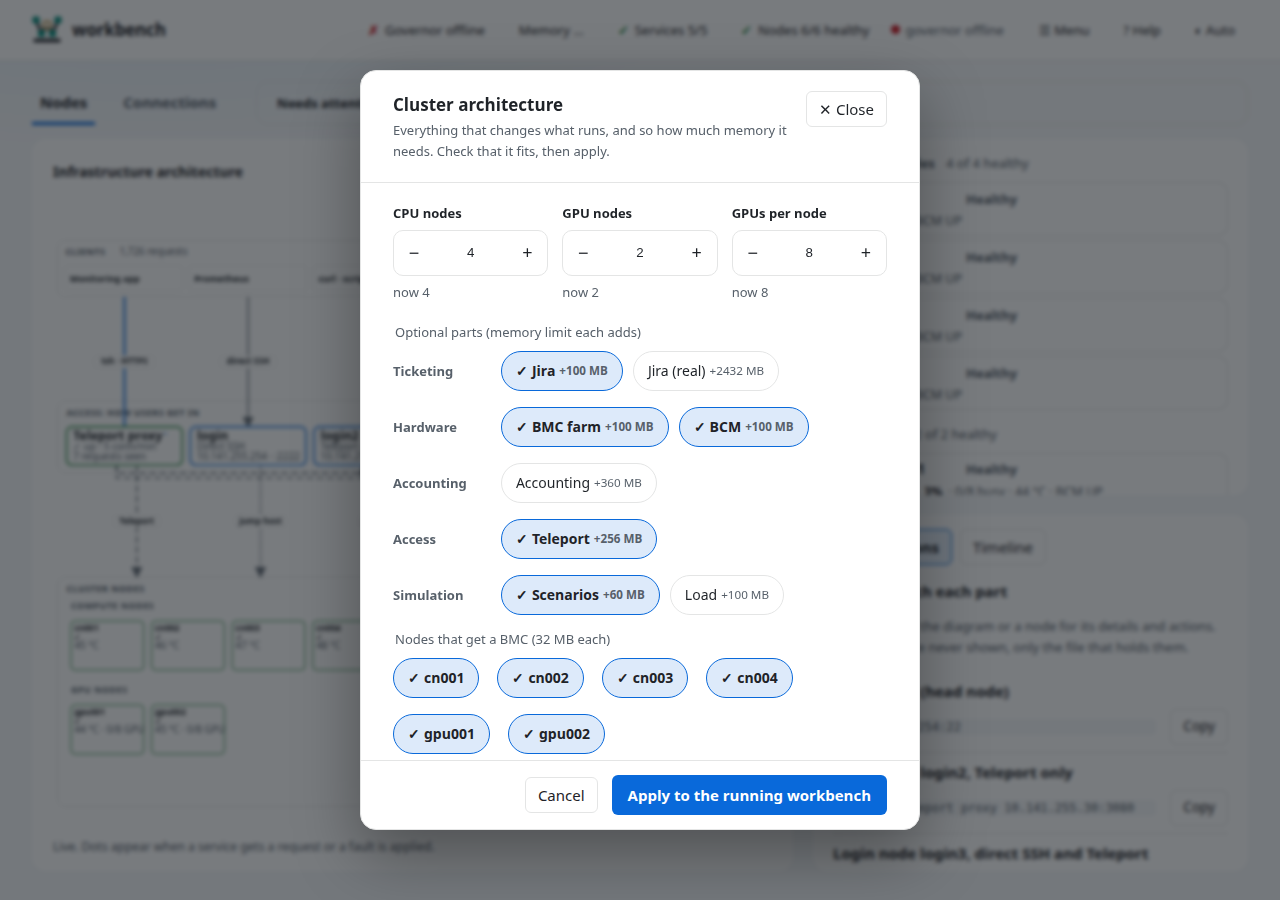
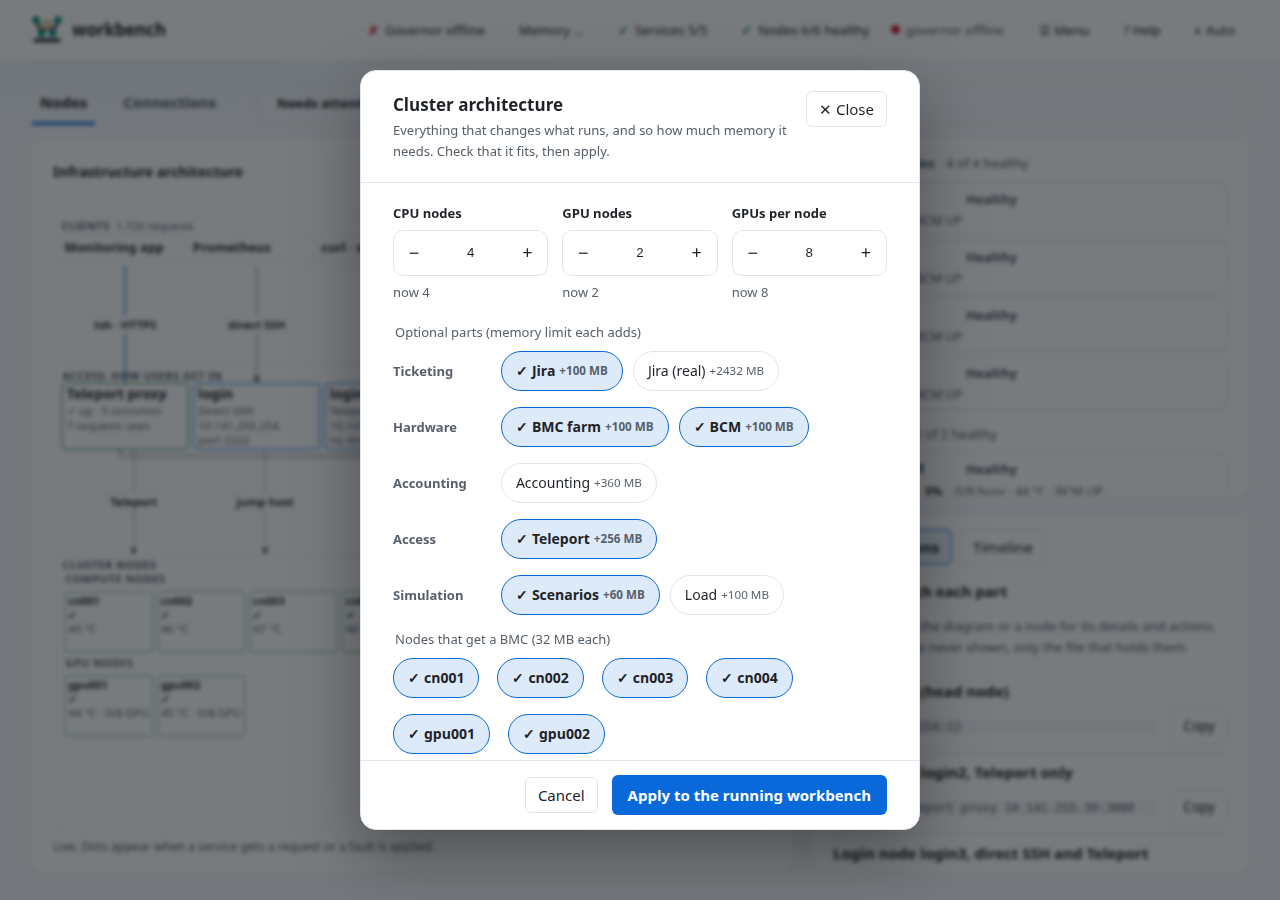
fix(webui): diagram text has one size on screen and every box is sized from its text (#319)
The SVG text was drawn at 22 and 17.5 units while the boxes were laid out for
15 and 12.5, so login addresses spilled out of their boxes, and the fixed
baselines made the lines cramped. Text is now a constant on-screen size
(UF, in px) whatever the scale of the drawing, set as --u on the SVG; the
layout is measured with the same font, iterated until the size settles, and
each box gets the width and height its text needs. A login box has four short
lines: name, how it authenticates, IP, port. fitText stays only as a safety
net for a name longer than any sample.

diff --git a/webui/static/index.html b/webui/static/index.html
@@ -323,6 +323,8 @@
   .reach { list-style:none; margin:var(--sp3) 0 0; padding:0; } .reach li { display:grid; grid-template-columns:minmax(0,1fr) auto; gap:2px var(--sp2); align-items:center; padding:7px 0; border-bottom:1px solid var(--line); } .reach b { grid-column:1 / -1; font-size:13px; color:var(--fg); display:block; margin:0; } .reach code { font-size:12px; overflow-wrap:anywhere; }
   .dock { background:var(--panel); border-radius:14px; padding:var(--sp4) var(--sp5); min-width:0; }
   ul.tl { list-style:none; margin:0; padding:0; max-height:220px; overflow-y:auto; } ul.tl li { display:grid; grid-template-columns:auto minmax(0,1fr); gap:var(--sp3); padding:5px 0; border-bottom:1px solid var(--line); font-size:13px; } ul.tl .ft { color:var(--dim); font-variant-numeric:tabular-nums; } ul.tl b.f { color:var(--warn); } ul.tl b.r { color:var(--accent); }
+  #flow[data-fit] text { font-size:calc(var(--u,1.5) * 14px); font-weight:600; } #flow[data-fit] text.sub { font-size:calc(var(--u,1.5) * 11.5px); font-weight:400; } #flow[data-fit] .ftitle { font-size:calc(var(--u,1.5) * 11px); font-weight:700; }
+  #flow[data-fit] .ndt { font-size:calc(var(--u,1.5) * 11px); } #flow[data-fit] .ndt.cl { font-size:calc(var(--u,1.5) * 13px); } #flow[data-fit=n] .ndt.cl { font-size:calc(var(--u,1.5) * 10.5px); } #flow[data-fit] text.elab { font-size:calc(var(--u,1.5) * 11.5px); } #flow[data-fit] .badge { font-size:calc(var(--u,1.5) * 12px); }
   .node.sel { outline:2px solid var(--accent); outline-offset:-2px; }
   #trafficpanel { order:0; } #nodesmain { order:2; } #inspector { order:3; } .ipane#dock { display:block; } .ipane#dock[hidden] { display:block; }  /* narrow: one column, the timeline under the list */
   @media (min-width:1100px) {
@@ -959,7 +961,7 @@ const JIRA_REAL_BOX = ['jira-real', 'Jira DC', 'Data Center'];
 function hasService(k) { try { return !!(lastCluster && k in JSON.parse(lastCluster).services); } catch (e) { return false; } }
 function svcList() { return [...BASE_SERVICES, ...(hasService('jira-real') ? [JIRA_REAL_BOX] : []), ...(hasTeleport() ? [TELEPORT_BOX] : [])]; }  // Teleport only when the part is built: no phantom box
 const G = { clients: { x: 8, y: 8, w: 164, h: 272 }, injector: { x: 8, y: 300, w: 164, h: 124 }, cluster: { x: 668, y: 8, w: 504 } };  // set by buildFlow from the panel's shape
-let svcOut = {}, svcLane = {};
+let svcOut = {}, svcLane = {}, svcFit = {};  // svcFit: the width a box's text may use
 const reduced = matchMedia('(prefers-reduced-motion: reduce)');
 let flowEs = null, flowPaused = false, flowCursor = 0, dots = [], raf = 0, recent = [], flowSnap = null, flowLevel = 0, flowNodes = '', tiles = {}, svcPos = {};
 function sv(tag, attrs, text) { const e = document.createElementNS(SVGNS, tag); for (const k in attrs) e.setAttribute(k, attrs[k]); if (text != null) e.textContent = text; return e; }
@@ -1070,16 +1072,36 @@ const stackUp = () => { try { return Object.values(JSON.parse(lastCluster).servi
 const loginRuns = l => l.up !== false;  // nothing answers on its port 22: it was selected, but it is not built or not running
 const loginAddr = l => (l.ip || l.name) + (l.mode === 'teleport' ? ' · no port' : ` · :${l.port}`);  // the address a client dials (private IP; the published port is on 127.0.0.1)
 function loginList() { try { const l = lastCluster && JSON.parse(lastCluster).logins; return l && l.length ? l : LOGIN_ONE; } catch (e) { return LOGIN_ONE; } }
-const TW = 68, TH = 46, GAP = 14;
-function flowFit() {  // the shape of the panel the diagram must fill (#319); narrow screens keep the natural 1180-wide drawing
+const GAP = 14;
+// Text has one size on the screen, whatever the scale of the drawing (#319): UF is in screen pixels, `u` is drawing units per pixel
+// (the inverse of the scale), set as --u on the SVG. Every box is sized from its measured text, so nothing spills out of a box.
+const UF = { sn: 14, sub: 11.5, title: 11, tile: 11, chip: 13, lab: 11.5 }, FAM = 'system-ui, sans-serif';
+const measureCtx = document.createElement('canvas').getContext('2d');
+function textW(t, k, u, weight = 400, upper = false) {  // the width of a text in drawing units
+  const str = upper ? String(t).toUpperCase() : String(t); measureCtx.font = `${weight} ${UF[k] * u}px ${FAM}`;
+  return measureCtx.measureText(str).width + (upper ? str.length * UF[k] * u * 0.05 : 0);
+}
+function fitText(text, k, u, maxW, weight = 400) {  // safety net for a name or number longer than any sample: cut with an ellipsis
+  if (textW(text, k, u, weight) <= maxW) return text;
+  let lo = 0, hi = text.length; while (lo < hi) { const mid = (lo + hi + 1) >> 1; if (textW(text.slice(0, mid) + '…', k, u, weight) <= maxW) lo = mid; else hi = mid - 1; }
+  return text.slice(0, lo).trimEnd() + '…';
+}
+const LEGACY = { ys: [24, 42, 58, 74], h: 68 };  // the narrow-screen drawing keeps its fixed box
+function boxM(u, lines) {  // baselines and height of a box with a bold name and `lines - 1` detail lines
+  const sn = UF.sn * u, sub = UF.sub * u, ys = [8 + sn * 0.9];
+  for (let n = 1; n < lines; n++) ys.push(ys[n - 1] + sub * (n === 1 ? 1.4 : 1.3));
+  return { ys, h: Math.ceil(ys[lines - 1] + 12) };
+}
+const portLine = l => l.mode === 'teleport' ? 'no direct port' : `port ${l.port}`;
+let unitNow = 1.5, flowFitKey = '';
+function flowFit() {  // the shape of the panel the diagram must fill; narrow screens keep the natural 1180-wide drawing
   if (!dockWide()) return { a: 0, col: false };
   const r = $('flow').getBoundingClientRect(), a = r.width > 80 && r.height > 80 ? r.width / r.height : 0;
   return { a, col: a > 0 };
 }
 const fitKey = () => { const f = flowFit(); return f.a ? 'c' + Math.round(f.a * 6) : 'n'; };
-let flowFitKey = '';
-function tileGrid(nodes, cols, tw = TW, th = TH) {  // node tiles by group, relative to the cluster frame: [label|node, ...], and the height the frame needs
-  let ry = 52; const items = [];
+function tileGrid(nodes, cols, tw, th, top = 52) {  // node tiles by group, relative to the cluster frame: [label|node, ...], and the height the frame needs
+  let ry = top; const items = [];
   for (const k of ['compute', 'gpu']) {
     const rows = nodes.filter(n => n.kind === k); if (!rows.length) continue;
     items.push(['label', k, ry]); ry += 26;
@@ -1088,58 +1110,79 @@ function tileGrid(nodes, cols, tw = TW, th = TH) {  // node tiles by group, rela
   }
   return { items, h: ry + 4 };
 }
-function flowGeom(nodes, acc, nS, a, col) {
-  const M = 8, P = { col };
-  if (col) {  // top to bottom: Clients row, Access row, Cluster nodes; the Services column sits at the right and its lines run down a gutter and enter from the left (#319)
-    const BH = 68, R1 = 100, ACCH = 46 + BH + 14, GAPY = 64, GW = 110, SWD = 222, svW = SWD + 32;
-    let Wm = Math.max(4 * 150 + 54, acc.length * 216 + 32, 444);
+function flowGeom(nodes, acc, svcs, a, col, u) {
+  const M = 8, nS = svcs.length, P = { col, u, tb: 26 }, W = (t, k, w) => textW(t, k, u, w);
+  const tw0 = Math.max(64, Math.ceil(Math.max(0, ...nodes.map(n => W(n.name, 'tile', 600))) + 16)), tn = UF.tile * u;
+  const th0 = Math.ceil(10 + tn * 0.9 + tn * 1.3 + 10), thFacts = Math.ceil(th0 + tn * 1.35), twFacts = Math.ceil(W('99 °C · 8/8 GPU', 'sub') + 14);
+  P.tileM = { y1: 8 + tn * 0.9, y2: 8 + tn * 0.9 + tn * 1.3, y3: 8 + tn * 0.9 + tn * 2.6 };
+  if (col) {  // top to bottom: Clients row, Access row, Cluster nodes; the Services column sits at the right and its lines run down a gutter and enter from the left
+    const tb = 10 + UF.title * u * 0.95, chipH = Math.ceil(UF.chip * u * 1.3 + 22), R1 = Math.ceil(tb + 12 + chipH + 14), GAPY = 64, GW = 110;
+    const mA = boxM(u, 4), mS = boxM(u, 3), ACCH = 46 + mA.h + 14, top = Math.ceil(tb + 34);
+    const needA = Math.max(150, ...acc.map(x => Array.isArray(x) ? Math.max(W(x[1], 'sn', 600) + 44, W('✓ up · 99 conn/min', 'sub'), W('99,999 requests seen', 'sub')) + 24
+      : Math.max(W(x.name, 'sn', 600), W(MODE_TEXT[x.mode], 'sub'), W(x.ip || x.name, 'sub'), W(portLine(x), 'sub')) + 24));
+    const SWD = Math.ceil(Math.max(180, ...svcs.map(([, label, sub]) => Math.max(W(label, 'sn', 600) + 44, W('✓ up · 99,999 req/min', 'sub'), W('99,999 requests seen', 'sub'), W(sub, 'sub')) + 24))), svW = SWD + 32;
+    const chipW = Math.ceil(Math.max(120, ...['Monitoring app', 'Prometheus', 'curl · scripts', 'You: ssh · tsh'].map(t => W(t, 'chip', 600) + 24)));
+    let Wm = Math.max(4 * chipW + 54, acc.length * (Math.ceil(needA) + 14) + 18, 444);
     const make = (w, ex) => {
-      const g1 = GAPY + ex * 0.25, g2 = GAPY + ex * 0.25, pitch = 76 + (ex * 0.75) / Math.max(nS, 1);
+      const g1 = GAPY + ex * 0.25, g2 = GAPY + ex * 0.25, pitch = mS.h + 10 + (ex * 0.75) / Math.max(nS, 1);
       const y2 = M + R1 + g1, svH = 46 + nS * pitch + 8, y3 = y2 + ACCH + g2;
-      let k = 1, tw = TW, th = TH, cols = Math.max(3, Math.floor((w - 48 + GAP) / (tw + GAP))), tg = tileGrid(nodes, cols, tw, th);
+      let tw = tw0, th = th0, cols = Math.max(3, Math.floor((w - 48 + GAP) / (tw + GAP))), tg = tileGrid(nodes, cols, tw, th, top);
       const free = Math.max(y2 + svH - y3, tg.h);  // the tiles grow (up to 2x) into the height the Services column leaves, and then show temperature and GPU load
-      for (let t = 1.1; t <= 2; t += 0.1) { const w2 = Math.round(TW * t), h2 = Math.round(TH * t), c2 = Math.max(3, Math.floor((w - 48 + GAP) / (w2 + GAP))), g = tileGrid(nodes, c2, w2, h2); if (g.h > free) break; k = t; tw = w2; th = h2; cols = c2; tg = g; }
+      for (let t = 1.1; t <= 2; t += 0.1) { const w2 = Math.max(Math.round(tw0 * t), twFacts), h2 = Math.max(Math.round(th0 * t), thFacts), c2 = Math.max(3, Math.floor((w - 48 + GAP) / (w2 + GAP))), g = tileGrid(nodes, c2, w2, h2, top); if (g.h > free) break; tw = w2; th = h2; cols = c2; tg = g; }
       const bottom = Math.max(y2 + svH, y3 + tg.h);
       return { cols, tg, tw, th, pitch, y2, y3, svH, bottom, W: M + w + GW + svW + M, H: bottom + M };
     };
     let L = make(Wm, 0);
     if (a && L.H * a > L.W) { Wm += L.H * a - L.W; L = make(Wm, 0); }  // the panel is wider than the drawing: widen the main column (more tile columns, wider boxes)
     if (a && L.W / L.H > a) L = make(Wm, L.W / a - L.H);               // the panel is taller: spread the extra height over the gaps and the service pitch
-    const n = Math.max(acc.length, 1), bw = Math.min(244, (Wm - 32 - (n - 1) * 14) / n), x0 = M + (Wm - (n * bw + (n - 1) * 14)) / 2;
+    const n = Math.max(acc.length, 1), bw = Math.min(Math.max(280, Math.ceil(needA)), (Wm - 32 - (n - 1) * 14) / n), x0 = M + (Wm - (n * bw + (n - 1) * 14)) / 2;
+    Object.assign(P, { tb, chipH, chipW: Math.min(chipW + 40, (Wm - 24 - 30) / 4), mA, mS });
     P.clients = { x: M, y: M, w: Wm, h: R1 }; P.injector = { x: M + Wm + GW, y: M, w: svW, h: R1 };
     P.access = { x: M, y: L.y2, w: Wm, h: ACCH }; P.cluster = { x: M, y: L.y3, w: Wm, h: L.bottom - L.y3 }; P.svcFrame = { x: M + Wm + GW, y: L.y2, w: svW, h: L.svH };
-    P.place = acc.map((_, i) => ({ x: x0 + i * (bw + 14), y: L.y2 + 46, w: bw, h: BH }));
-    P.svcP = Array.from({ length: nS }, (_, i) => ({ x: P.svcFrame.x + 16, y: L.y2 + 46 + i * L.pitch, w: SWD, h: BH }));
-    Object.assign(P, { tiles: L.tg.items, tw: L.tw, th: L.th, FW: Math.round(L.W), H: Math.round(L.bottom + M), BH, gutter: { x0: M + Wm, x1: M + Wm + GW } });
+    P.place = acc.map((_, i) => ({ x: x0 + i * (bw + 14), y: L.y2 + 46, w: bw, h: mA.h }));
+    P.svcP = Array.from({ length: nS }, (_, i) => ({ x: P.svcFrame.x + 16, y: L.y2 + 46 + i * L.pitch, w: SWD, h: mS.h }));
+    Object.assign(P, { tiles: L.tg.items, tw: L.tw, th: L.th, FW: Math.round(L.W), H: Math.round(L.bottom + M), gutter: { x0: M + Wm, x1: M + Wm + GW } });
     return P;
   }
   const BH = 68, PIT = 92, chipsH = 316, AW = 336;  // narrow screens: Clients and Faults | Access over Services | Cluster nodes
-  const natural = 1180, cwide = 504, cols = Math.max(3, Math.floor((cwide - 48 + GAP) / (TW + GAP))), tg = tileGrid(nodes, cols);
+  const natural = 1180, cwide = 504, cols = Math.max(3, Math.floor((cwide - 48 + GAP) / (tw0 + GAP))), tg = tileGrid(nodes, cols, tw0, th0);
   const accH = 56 + acc.length * PIT, topH = Math.max(accH, tg.h), AX = 252, cx = 668;
   const svTop = 8 + topH + 84, svH = 46 + BH + 40, rightEdge = cx + cwide, H = Math.max(8 + chipsH + 20 + 124 + 20, svTop + svH + 20);
   const SPITCH = Math.min(222, Math.floor((rightEdge - AX - 36) / Math.max(nS, 1)));
+  Object.assign(P, { chipH: 46, chipW: 140, mA: LEGACY, mS: LEGACY });
   P.clients = { x: 8, y: 8, w: 164, h: chipsH }; P.injector = { x: 8, y: 8 + chipsH + 20, w: 164, h: 124 };
   P.access = { x: AX, y: 8, w: AW, h: topH }; P.cluster = { x: cx, y: 8, w: cwide, h: topH }; P.svcFrame = { x: AX, y: svTop, w: rightEdge - AX, h: svH };
   P.place = acc.map((_, i) => ({ x: AX + 114, y: 8 + 56 + i * PIT, w: 216, h: BH }));
   P.svcP = Array.from({ length: nS }, (_, i) => ({ x: AX + 18 + i * SPITCH, y: svTop + 46, w: SPITCH - 26, h: BH }));
-  Object.assign(P, { tiles: tg.items, tw: TW, th: TH, FW: Math.round(Math.max(natural, rightEdge + 8)), H, BH, topEnd: 8 + topH });
+  Object.assign(P, { tiles: tg.items, tw: tw0, th: th0, FW: Math.round(Math.max(natural, rightEdge + 8)), H, topEnd: 8 + topH });
   return P;
 }
 function buildFlow() {
   const g = $('flow'), nodes = nodeList(), lgs = loginList(), svcs = svcList().filter(x => x[0] !== 'teleport'), tpBox = svcList().find(x => x[0] === 'teleport');
   g.innerHTML = ''; dots = []; tiles = {}; svcPos = {}; svcOut = {}; svcLane = {}; flowNodes = flowSig(nodes); flowFitKey = fitKey();
   const CHIPS = [['Monitoring app', lgs[0].name], ['Prometheus', 'prometheus'], ['curl · scripts', null], ['You: ssh · tsh', lgs[0].name]];
-  const acc = [...(tpBox ? [tpBox] : []), ...lgs], fit = flowFit(), col = fit.col, P = flowGeom(nodes, acc, svcs.length, fit.a, col), BH = P.BH, nS = svcs.length;
+  const acc = [...(tpBox ? [tpBox] : []), ...lgs], fit = flowFit(), col = fit.col, nS = svcs.length;
+  let u = unitNow, P;  // drawing units per screen pixel: the drawing is laid out, measured against the panel, and laid out again until the text size settles
+  const r = g.getBoundingClientRect();
+  for (let it = 0; it < 5; it++) {
+    P = flowGeom(nodes, acc, svcs, fit.a, col, u);
+    if (!(r.width > 80)) break;
+    const sc = col ? Math.min(r.width / P.FW, r.height / P.H) : r.width / P.FW, nu = Math.min(2.6, Math.max(0.8, 1 / sc));
+    if (Math.abs(nu - u) < 0.03) break;
+    u += (nu - u) * 0.7;
+  }
+  P = flowGeom(nodes, acc, svcs, fit.a, col, u); unitNow = u; const { mA, mS } = P;  // the last layout uses the size the CSS will use
   G.clients = P.clients; G.injector = P.injector; G.cluster = P.cluster;
-  g.setAttribute('viewBox', `0 0 ${P.FW} ${P.H}`);
-  const fr = (r, rx) => sv('rect', { class: 'frame', x: r.x, y: r.y, width: r.w, height: r.h, rx });
+  g.setAttribute('viewBox', `0 0 ${P.FW} ${P.H}`); g.setAttribute('data-fit', col ? 'c' : 'n'); g.style.setProperty('--u', u.toFixed(3));
+  const fr = (rc, rx) => sv('rect', { class: 'frame', x: rc.x, y: rc.y, width: rc.w, height: rc.h, rx });
   const defs = sv('defs', {}), mk = sv('marker', { id: 'arr', viewBox: '0 0 10 10', refX: 9, refY: 5, markerWidth: 8, markerHeight: 8, orient: 'auto' }); mk.append(sv('path', { d: 'M0 0 L10 5 L0 10 z' })); defs.append(mk); g.append(defs);
   g.append(fr(P.clients, 12), fr(P.injector, 12), fr(P.access, 14), fr(P.svcFrame, 14), fr(P.cluster, 14));
-  const jy = P.injector.y, cy = P.clients.y, ix = P.injector.x + 14;
-  g.append(sv('text', { class: 'ftitle', x: P.clients.x + 14, y: cy + 26 }, 'Clients'), sv('text', { class: 'ftitle', x: ix, y: jy + 26 }, 'Faults'), sv('text', { class: 'ftitle', x: P.access.x + 16, y: P.access.y + 26 }, 'Access: how users get in'),
-    sv('text', { class: 'ftitle', x: P.svcFrame.x + 16, y: col ? P.svcFrame.y + 26 : P.svcFrame.y + P.svcFrame.h - 12 }, col ? 'Services' : 'Services: what clients call'), sv('text', { class: 'ftitle', x: P.cluster.x + 16, y: P.cluster.y + 26 }, 'Cluster nodes'));
-  g.append(sv('text', { class: 'sub', id: 'fc-clients', x: col ? P.clients.x + 110 : 22, y: col ? cy + 26 : P.clients.y + P.clients.h - 12 }, ''), sv('text', { class: 'sub', id: 'fc-injector', x: ix + (col ? 100 : 0), y: col ? jy + 26 : jy + 110 }, ''),
-    sv('text', { class: 'sub', x: ix, y: jy + (col ? 56 : 58) }, '◆ scenarios'), sv('text', { class: 'sub', x: ix + (col ? 120 : 0), y: col ? jy + 56 : jy + 84 }, '◆ buttons'));
+  const jy = P.injector.y, cy = P.clients.y, ix = P.injector.x + 14, tb = P.tb, sub = UF.sub * u, W = (t, k, w, up) => textW(t, k, u, w, up);
+  g.append(sv('text', { class: 'ftitle', x: P.clients.x + 14, y: cy + tb }, 'Clients'), sv('text', { class: 'ftitle', x: ix, y: jy + tb }, 'Faults'), sv('text', { class: 'ftitle', x: P.access.x + 16, y: P.access.y + tb }, 'Access: how users get in'),
+    sv('text', { class: 'ftitle', x: P.svcFrame.x + 16, y: col ? P.svcFrame.y + tb : P.svcFrame.y + P.svcFrame.h - 12 }, col ? 'Services' : 'Services: what clients call'), sv('text', { class: 'ftitle', x: P.cluster.x + 16, y: P.cluster.y + tb }, 'Cluster nodes'));
+  g.append(sv('text', { class: 'sub', id: 'fc-clients', x: col ? P.clients.x + 14 + W('Clients', 'title', 700, true) + 16 : 22, y: col ? cy + tb : P.clients.y + P.clients.h - 12 }, ''),
+    sv('text', { class: 'sub', id: 'fc-injector', x: ix + (col ? W('Faults', 'title', 700, true) + 16 : 0), y: col ? jy + tb : jy + 110 }, ''),
+    sv('text', { class: 'sub', x: ix, y: jy + (col ? tb + sub * 1.9 : 58) }, '◆ scenarios'), sv('text', { class: 'sub', x: ix + (col ? W('◆ scenarios', 'sub') + 18 : 0), y: col ? jy + tb + sub * 1.9 : jy + 84 }, '◆ buttons'));
   const nOut = (col ? 0 : (tpBox ? 1 : 0) + lgs.filter(l => l.mode !== 'teleport').length) + nS; let oi = 0;  // lines leave the client frame spread along its edge, so they do not pile up
   const out = () => col ? { x: P.clients.x + P.clients.w, y: P.clients.y + 30 + (oi++) * ((P.clients.h - 50) / Math.max(nS - 1, 1)) } : { x: P.clients.x + P.clients.w, y: P.clients.y + 44 + (oi++) * ((P.clients.h - 96) / Math.max(nOut - 1, 1)) };
   const injOut = { x: P.injector.x + (col ? 0 : P.injector.w), y: P.injector.y + P.injector.h / 2 };
@@ -1148,34 +1191,36 @@ function buildFlow() {
   const edge = (kind, bz, text, tt = 0.5, id, eid) => {  // a labelled line: `kind` says the method (ssh, teleport, jump, api), the label says it in words; `eid` is its edge in the model
     const me = eid && gedge(eid); if (gr && !me) return bz;
     lanes.append(sv('path', { class: 'lane ' + kind, d: dpath(bz), ...(id ? { id } : {}), ...(me ? { 'data-edge': me.id, 'data-plane': me.plane, 'data-measured': me.measured } : {}), ...(kind !== 'api' ? { 'marker-end': 'url(#arr)' } : {}) }));
-    if (text) { const m = at(bz, tt), w = text.length * 8.4 + 16; labels.append(sv('rect', { class: 'elbg', x: m.x - w / 2, y: m.y - 11, width: w, height: 22, rx: 6 }), sv('text', { class: 'elab', x: m.x, y: m.y + 4.5, 'text-anchor': 'middle' }, text)); }
+    if (text) { const m = at(bz, tt), w = W(text, 'lab', 600) + 16, h = UF.lab * u * 1.6; labels.append(sv('rect', { class: 'elbg', x: m.x - w / 2, y: m.y - h / 2, width: w, height: h, rx: 6 }), sv('text', { class: 'elab', x: m.x, y: m.y + UF.lab * u * 0.36, 'text-anchor': 'middle' }, text)); }
     return bz;
   };
-  const box = (k, label, sub, p, popKind, popId, cls = '') => {
+  const box = (k, label, subtxt, p, popKind, popId, cls = '') => {
     svcPos[k] = Object.assign(svcPos[k] || {}, p);
-    const bg = asButton(sv('g', {}), `${label}${REAL_SERVICES.has(k) ? ' (real)' : cls === 'blkacc' ? '' : ' (simulated)'}: details`, () => openPop(bg, popKind, popId), () => svTip(k));
-    const kind = cls === 'blkacc' ? '' : REAL_SERVICES.has(k) ? 'real' : 'sim';
-    bg.append(sv('rect', { class: 'blk ' + cls + (kind ? ' ' + kind : ''), id: 'fb-' + k, x: p.x, y: p.y, width: p.w, height: p.h, rx: 10 }), sv('rect', { class: 'fring', id: 'ff-' + k, x: p.x - 4, y: p.y - 4, width: p.w + 8, height: p.h + 8, rx: 13 }), ...(kind ? [sv('path', { class: 'kbar ' + kind, d: `M${p.x + 4} ${p.y + 12} V${p.y + p.h - 12}` })] : []), sv('text', { class: 'badge act', id: 'fa-' + k, x: p.x + p.w - 34, y: p.y + 16 }, '●'), sv('text', { class: 'badge flt', id: 'fx-' + k, x: p.x + p.w - 20, y: p.y + 16 }, '▲'), sv('text', { class: 'sn', x: p.x + 12, y: p.y + p.h - 44 }, label), sv('text', { class: 'sub', id: 'fs-' + k, x: p.x + 12, y: p.y + p.h - 26 }, ''), sv('text', { class: 'sub', id: 'fc-' + k, x: p.x + 12, y: p.y + p.h - 10 }, sub)); return bg;
+    const m = p.h === mS.h ? mS : mA, bg = asButton(sv('g', {}), `${label}${REAL_SERVICES.has(k) ? ' (real)' : cls === 'blkacc' ? '' : ' (simulated)'}: details`, () => openPop(bg, popKind, popId), () => svTip(k));
+    const kind = cls === 'blkacc' ? '' : REAL_SERVICES.has(k) ? 'real' : 'sim', bx = UF.sub * u;
+    bg.append(sv('rect', { class: 'blk ' + cls + (kind ? ' ' + kind : ''), id: 'fb-' + k, x: p.x, y: p.y, width: p.w, height: p.h, rx: 10 }), sv('rect', { class: 'fring', id: 'ff-' + k, x: p.x - 4, y: p.y - 4, width: p.w + 8, height: p.h + 8, rx: 13 }), ...(kind ? [sv('path', { class: 'kbar ' + kind, d: `M${p.x + 4} ${p.y + 12} V${p.y + p.h - 12}` })] : []),
+      sv('text', { class: 'badge act', id: 'fa-' + k, x: p.x + p.w - bx * 2.4, y: p.y + m.ys[0] }, '●'), sv('text', { class: 'badge flt', id: 'fx-' + k, x: p.x + p.w - bx * 1.2, y: p.y + m.ys[0] }, '▲'),
+      sv('text', { class: 'sn', x: p.x + 12, y: p.y + m.ys[0] }, label), sv('text', { class: 'sub', id: 'fs-' + k, x: p.x + 12, y: p.y + m.ys[1] }, ''), sv('text', { class: 'sub', id: 'fc-' + k, x: p.x + 12, y: p.y + m.ys[2] }, subtxt)); svcFit[k] = p.w - 24; return bg;
   };
   const svTip = k => { const l = svcList().find(x => x[0] === k); const up = flowSnap?.reachable[k]; return [l[1] + (REAL_SERVICES.has(k) ? ' (real)' : k === 'teleport' ? '' : ' (simulated)') + ' · ' + (up ? 'up' : flowSnap ? 'not reachable' : 'checking'), SVC_METHOD[k] + ' · click for address and command']; };
-  const place = acc.map((a, i) => [a, P.place[i]]), tpP = tpBox && place[0][1], cb = P.clients.y + P.clients.h;
+  const place = acc.map((a2, i) => [a2, P.place[i]]), tpP = tpBox && place[0][1], cb = P.clients.y + P.clients.h;
   if (col) {  // Access row: straight lines down from the Clients frame; Teleport to a login runs in a U under the boxes; every box has a short jump line down to the nodes
     if (tpBox) { const o = svcOut.teleport = { x: tpP.x + tpP.w / 2, y: cb }; svcLane.teleport = edge('api', poly([o, { x: o.x, y: tpP.y }]), SVC_METHOD.teleport, 0.5, 'ln-teleport', 'clients>teleport:api'); }
-    let u = 0;
+    let uu = 0;
     for (const [l, p] of place) {
       if (l === tpBox) continue;
       if (l.mode !== 'teleport') edge('ssh', poly([{ x: p.x + p.w / 2, y: cb }, { x: p.x + p.w / 2, y: p.y }]), 'direct SSH', 0.5, null, `clients>${l.name}:ssh`);
-      if (l.mode !== 'ssh' && tpBox) { const by = p.y + BH, uy = by + 14 + (u++) * 9, sx = tpP.x + tpP.w / 2 - 14; edge('teleport', poly([{ x: sx, y: tpP.y + BH }, { x: sx, y: uy }, { x: p.x + p.w / 2 - 14, y: uy }, { x: p.x + p.w / 2 - 14, y: by }]), '', 0.5, null, `teleport>${l.name}:teleport`); }
+      if (l.mode !== 'ssh' && tpBox) { const by = p.y + p.h, uy = by + 14 + (uu++) * 9, sx = tpP.x + tpP.w / 2 - 14; edge('teleport', poly([{ x: sx, y: tpP.y + tpP.h }, { x: sx, y: uy }, { x: p.x + p.w / 2 - 14, y: uy }, { x: p.x + p.w / 2 - 14, y: by }]), '', 0.5, null, `teleport>${l.name}:teleport`); }
     }
-    for (const [l, p] of place) { const jx = p.x + p.w / 2 + 22; if (l !== tpBox) edge('jump', poly([{ x: jx, y: p.y + BH }, { x: jx, y: P.cluster.y }]), 'jump host', 0.5, null, `${l.name}>nodes:jump`); }
-    if (tpBox) edge('teleport', poly([{ x: tpP.x + tpP.w / 2 + 22, y: tpP.y + BH }, { x: tpP.x + tpP.w / 2 + 22, y: P.cluster.y }]), 'Teleport', 0.5, null, 'teleport>nodes:teleport');
+    for (const [l, p] of place) { const jx = p.x + p.w / 2 + 22; if (l !== tpBox) edge('jump', poly([{ x: jx, y: p.y + p.h }, { x: jx, y: P.cluster.y }]), 'jump host', 0.5, null, `${l.name}>nodes:jump`); }
+    if (tpBox) edge('teleport', poly([{ x: tpP.x + tpP.w / 2 + 22, y: tpP.y + tpP.h }, { x: tpP.x + tpP.w / 2 + 22, y: P.cluster.y }]), 'Teleport', 0.5, null, 'teleport>nodes:teleport');
   } else {
-    if (tpBox) { const o = svcOut.teleport = out(); svcLane.teleport = edge('api', curve(o, { x: tpP.x, y: tpP.y + BH / 2 }), SVC_METHOD.teleport, 0.5, 'ln-teleport', 'clients>teleport:api'); }
+    if (tpBox) { const o = svcOut.teleport = out(); svcLane.teleport = edge('api', curve(o, { x: tpP.x, y: tpP.y + tpP.h / 2 }), SVC_METHOD.teleport, 0.5, 'ln-teleport', 'clients>teleport:api'); }
     for (const [l, p] of place) {
       if (l === tpBox) continue;
-      const mid = p.y + BH / 2;
+      const mid = p.y + p.h / 2;
       if (l.mode !== 'teleport') edge('ssh', curve(out(), { x: p.x, y: mid - 12 }), 'direct SSH', 0.3, null, `clients>${l.name}:ssh`);
-      if (l.mode !== 'ssh' && tpBox) { const s = { x: tpP.x, y: tpP.y + BH / 2 + 12 }, e = { x: p.x, y: mid + 12 }; edge('teleport', [s, { x: s.x - 62, y: s.y }, { x: e.x - 62, y: e.y }, e], 'Teleport', 0.5, null, `teleport>${l.name}:teleport`); }
+      if (l.mode !== 'ssh' && tpBox) { const s = { x: tpP.x, y: tpP.y + tpP.h / 2 + 12 }, e = { x: p.x, y: mid + 12 }; edge('teleport', [s, { x: s.x - 62, y: s.y }, { x: e.x - 62, y: e.y }, e], 'Teleport', 0.5, null, `teleport>${l.name}:teleport`); }
     }
   }
   const outs = svcs.map(() => out()); if (!col) outs.reverse();  // stacked: the rightmost box takes the topmost origin; column: the top box does. Either way no two service lines cross
@@ -1194,28 +1239,29 @@ function buildFlow() {
     }
   });
   if (!col) {
-    for (const [l, p] of place) if (l !== tpBox) edge('jump', curve({ x: p.x + p.w, y: p.y + BH / 2 }, { x: P.cluster.x, y: p.y + BH / 2 }), 'jump host', 0.5, null, `${l.name}>nodes:jump`);
-    if (tpBox) edge('teleport', curve({ x: tpP.x + tpP.w, y: tpP.y + BH / 2 }, { x: P.cluster.x, y: tpP.y + BH / 2 }), 'Teleport', 0.5, null, 'teleport>nodes:teleport');
+    for (const [l, p] of place) if (l !== tpBox) edge('jump', curve({ x: p.x + p.w, y: p.y + p.h / 2 }, { x: P.cluster.x, y: p.y + p.h / 2 }), 'jump host', 0.5, null, `${l.name}>nodes:jump`);
+    if (tpBox) edge('teleport', curve({ x: tpP.x + tpP.w, y: tpP.y + tpP.h / 2 }, { x: P.cluster.x, y: tpP.y + tpP.h / 2 }), 'Teleport', 0.5, null, 'teleport>nodes:teleport');
   }
-  for (const [a, p] of place) {
-    if (a === tpBox) { g.append(box('teleport', tpBox[1], tpBox[2], p, 'svc', 'teleport', 'blkacc')); continue; }
-    const l = a, lt = () => !loginRuns(l) ? [`${l.name} · not running`, stackUp() ? 'Selected, but nothing answers on its port 22: build it with benchctl up' : 'The stack is not running'] : [`${l.name} · ${MODE_TEXT[l.mode]}`, l.mode === 'teleport' ? 'No direct port: only through the Teleport proxy' : `${l.ip || l.name} (also 127.0.0.1:${l.port}) · click for the command`];
+  for (const [a2, p] of place) {
+    if (a2 === tpBox) { g.append(box('teleport', tpBox[1], tpBox[2], p, 'svc', 'teleport', 'blkacc')); continue; }
+    const l = a2, lt = () => !loginRuns(l) ? [`${l.name} · not running`, stackUp() ? 'Selected, but nothing answers on its port 22: build it with benchctl up' : 'The stack is not running'] : [`${l.name} · ${MODE_TEXT[l.mode]}`, l.mode === 'teleport' ? 'No direct port: only through the Teleport proxy' : `${l.ip || l.name} (also 127.0.0.1:${l.port}) · click for the command`];
     const bg = asButton(sv('g', { id: 'lg-' + l.name }), `${l.name}: ${MODE_TEXT[l.mode]}${loginRuns(l) ? '' : ', not running'}. Details`, () => openPop(bg, 'login', l.name), lt);
-    bg.append(sv('rect', { class: 'blk lgn' + (loginRuns(l) ? '' : stackUp() ? ' down' : ' off'), x: p.x, y: p.y, width: p.w, height: p.h, rx: 10 }), sv('text', { class: 'sn', x: p.x + 12, y: p.y + p.h - 44 }, l.name), sv('text', { class: 'sub', x: p.x + 12, y: p.y + p.h - 26 }, MODE_TEXT[l.mode]),
-      sv('text', { class: 'sub', x: p.x + 12, y: p.y + p.h - 10 }, loginRuns(l) ? loginAddr(l) : '✗ not running')); g.append(bg);
+    const lines = col ? [l.name, MODE_TEXT[l.mode], loginRuns(l) ? (l.ip || l.name) : '✗ not running', loginRuns(l) ? portLine(l) : ''] : [l.name, MODE_TEXT[l.mode], loginRuns(l) ? loginAddr(l) : '✗ not running'];
+    bg.append(sv('rect', { class: 'blk lgn' + (loginRuns(l) ? '' : stackUp() ? ' down' : ' off'), x: p.x, y: p.y, width: p.w, height: p.h, rx: 10 }), ...lines.map((t, n) => t ? [sv('text', { class: n ? 'sub' : 'sn', x: p.x + 12, y: p.y + mA.ys[n] }, fitText(t, n ? 'sub' : 'sn', u, p.w - 24, n ? 400 : 600))] : []).flat()); g.append(bg);
   }
-  svcs.forEach(([k, label, sub], i) => g.append(box(k, label, sub, P.svcP[i], 'svc', k)));
-  const chipW = col ? (P.clients.w - 24 - 3 * 10) / 4 : 140;
+  svcs.forEach(([k, label, sb], i) => g.append(box(k, label, sb, P.svcP[i], 'svc', k)));
+  const chipW = P.chipW, chipFs = UF.chip * u;
   CHIPS.forEach(([t], i) => {
-    const cg = asButton(sv('g', {}), `${t}: how it connects`, () => openPop(cg, 'client', t), () => [t, CLIENT_INFO[t]]), px = col ? P.clients.x + 12 + i * (chipW + 10) : 20, py = col ? cy + 44 : cy + 48 + i * 60;
-    cg.append(sv('rect', { class: 'chipbg', x: px, y: py, width: chipW, height: 46, rx: 9 }), sv('text', { class: 'ndt cl', x: px + 10, y: py + 29 }, t)); g.append(cg);
+    const cg = asButton(sv('g', {}), `${t}: how it connects`, () => openPop(cg, 'client', t), () => [t, CLIENT_INFO[t]]), px = col ? P.clients.x + 12 + i * (chipW + 10) : 20, py = col ? cy + tb + 12 : cy + 48 + i * 60;
+    cg.append(sv('rect', { class: 'chipbg', x: px, y: py, width: chipW, height: P.chipH, rx: 9 }), sv('text', { class: 'ndt cl', x: px + 10, y: py + P.chipH / 2 + chipFs * 0.35 }, t)); g.append(cg);
   });
+  const tm = P.tileM;
   for (const item of P.tiles) {
     if (item[0] === 'label') { g.append(sv('text', { class: 'ftitle', x: P.cluster.x + 24, y: P.cluster.y + item[2] + 4 }, item[1] === 'gpu' ? 'GPU nodes' : 'Compute nodes')); continue; }
     const [, n, rx, ry] = item, x = P.cluster.x + rx, ty = P.cluster.y + ry, glyph = STATE_ICON[n.state] || '?';
     const tg = asButton(sv('g', { id: 'nd-' + n.name }), `${n.name}: ${n.label}. Details`, () => openPop(tg, 'node', n.name), () => { const c = nodeList().find(m => m.name === n.name) || n; return [`${c.name} · ${c.label}`, 'click for how to reach it and its actions']; });
-    tg.append(sv('rect', { class: 'nd ' + n.state, x, y: ty, width: P.tw, height: P.th, rx: 7 }), sv('text', { class: 'ndt', x: x + 6, y: ty + 17 }, n.name), sv('text', { class: 'ndt', x: x + 6, y: ty + 33 }, glyph), sv('circle', { class: 'busy' + (n.gpus_busy > 0 ? ' on' : ''), cx: x + P.tw - 9, cy: ty + P.th - 11, r: 4.5 }));
-    if (P.th >= 52) tg.append(sv('text', { class: 'sub', x: x + 6, y: ty + 50 }, tileFacts(n)));  // a large tile has room for real numbers from the snapshot
+    tg.append(sv('rect', { class: 'nd ' + n.state, x, y: ty, width: P.tw, height: P.th, rx: 7 }), sv('text', { class: 'ndt', x: x + 8, y: ty + tm.y1 }, n.name), sv('text', { class: 'ndt', x: x + 8, y: ty + tm.y2 }, glyph), sv('circle', { class: 'busy' + (n.gpus_busy > 0 ? ' on' : ''), cx: x + P.tw - 10, cy: ty + 12, r: 4.5 }));
+    if (P.th >= tm.y3 + 10) tg.append(sv('text', { class: 'sub', x: x + 8, y: ty + tm.y3 }, tileFacts(n)));  // a large tile has room for real numbers from the snapshot
     g.append(tg); tiles[n.name] = { x, y: ty, w: P.tw, h: P.th, g: tg };
   }
   g.append(labels, sv('g', { id: 'dots' })); paintBlocks();
@@ -1234,12 +1280,13 @@ function paintBlocks() {
   for (const [k] of svcList()) {
     const up = flowSnap.reachable[k]; sent += flowSnap.totals[k] || 0;
     $('fb-' + k).setAttribute('class', 'blk ' + (up ? 'up' : allOff ? 'off' : 'down') + (k === 'teleport' ? '' : REAL_SERVICES.has(k) ? ' real' : ' sim'));  // everything off = stack not running: stay calm, not red
-    $('fs-' + k).textContent = up ? (k === 'jira-real' ? '✓ up · no counter' : '✓ up · ' + (rate[k] || 0) + (k === 'teleport' ? ' conn/min' : ' req/min')) : allOff ? '– offline' : '✗ not reachable';
+    const fitBox = t => fitText(t, 'sub', unitNow, svcFit[k] || 190);
+    $('fs-' + k).textContent = fitBox(up ? (k === 'jira-real' ? '✓ up · no counter' : '✓ up · ' + (rate[k] || 0) + (k === 'teleport' ? ' conn/min' : ' req/min')) : allOff ? '– offline' : '✗ not reachable');
     $('ln-' + k).setAttribute('class', 'lane' + (rate[k] ? ' on' : ''));
     const flt = recent.some(r => r.fault && r.to === k && r.t > Date.now() - 30000);  // a fault was applied to it in the last 30 s
     $('ff-' + k).setAttribute('class', 'fring' + (flt ? ' on' : '')); $('fx-' + k).setAttribute('class', 'badge flt' + (flt ? ' on' : '')); $('fa-' + k).setAttribute('class', 'badge act' + (rate[k] ? ' on' : ''));
     const si = document.getElementById('si-' + (k === 'gpu-exporter' ? 'gpu-exporter' : k)); if (si) si.textContent = k === 'jira-real' ? 'no request counter (the real Jira publishes none)' : `${rate[k] || 0} ${k === 'teleport' ? 'conn' : 'req'}/min · ${(flowSnap.totals[k] || 0).toLocaleString()} seen`;
-    $('fc-' + k).textContent = (flowSnap.totals[k] || 0) ? (flowSnap.totals[k]).toLocaleString() + ((flowSnap.totals[k]) === 1 ? ' request seen' : ' requests seen') : svcList().find(x => x[0] === k)[2];
+    $('fc-' + k).textContent = fitBox((flowSnap.totals[k] || 0) ? (flowSnap.totals[k]).toLocaleString() + ((flowSnap.totals[k]) === 1 ? ' request seen' : ' requests seen') : svcList().find(x => x[0] === k)[2]);
   }
   $('fc-clients').textContent = sent.toLocaleString() + ' requests';
   $('fc-injector').textContent = (flowSnap.faults || 0) + (flowSnap.faults === 1 ? ' fault applied' : ' faults applied');
